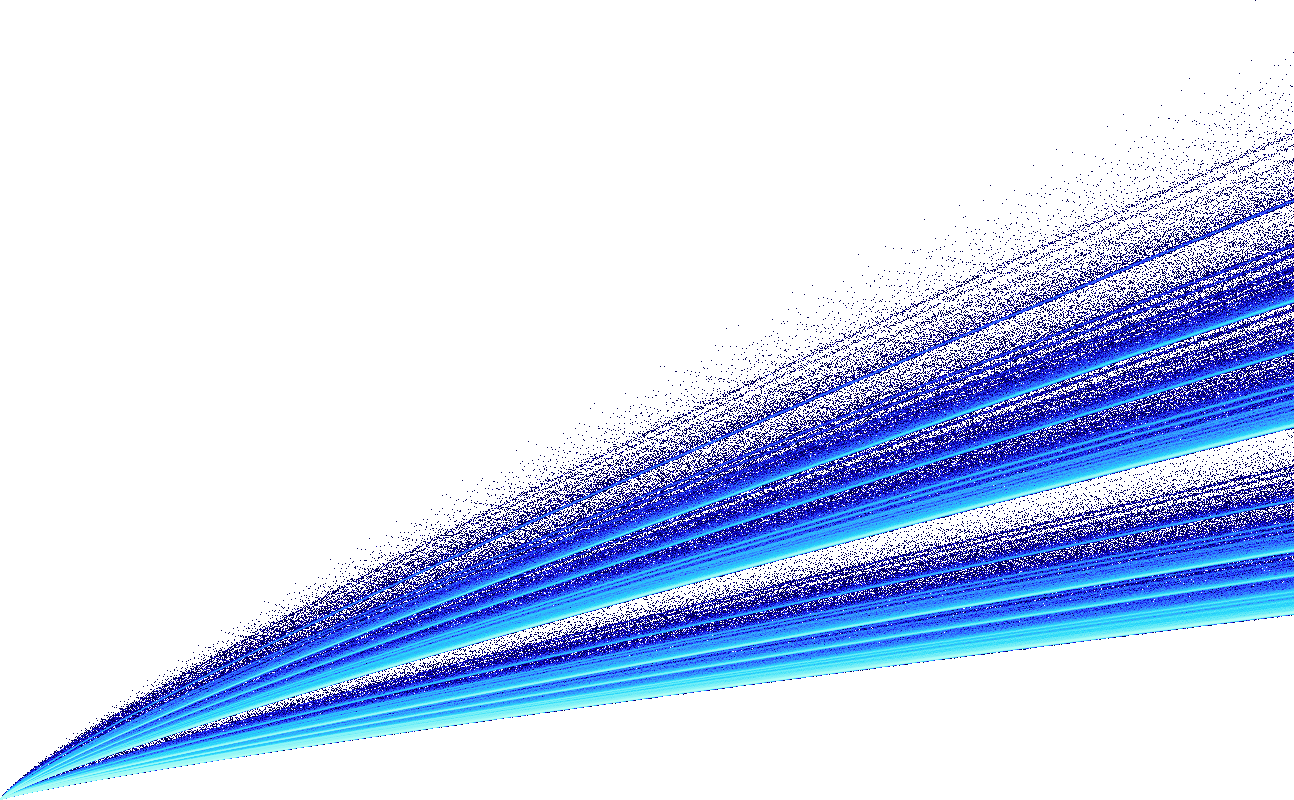
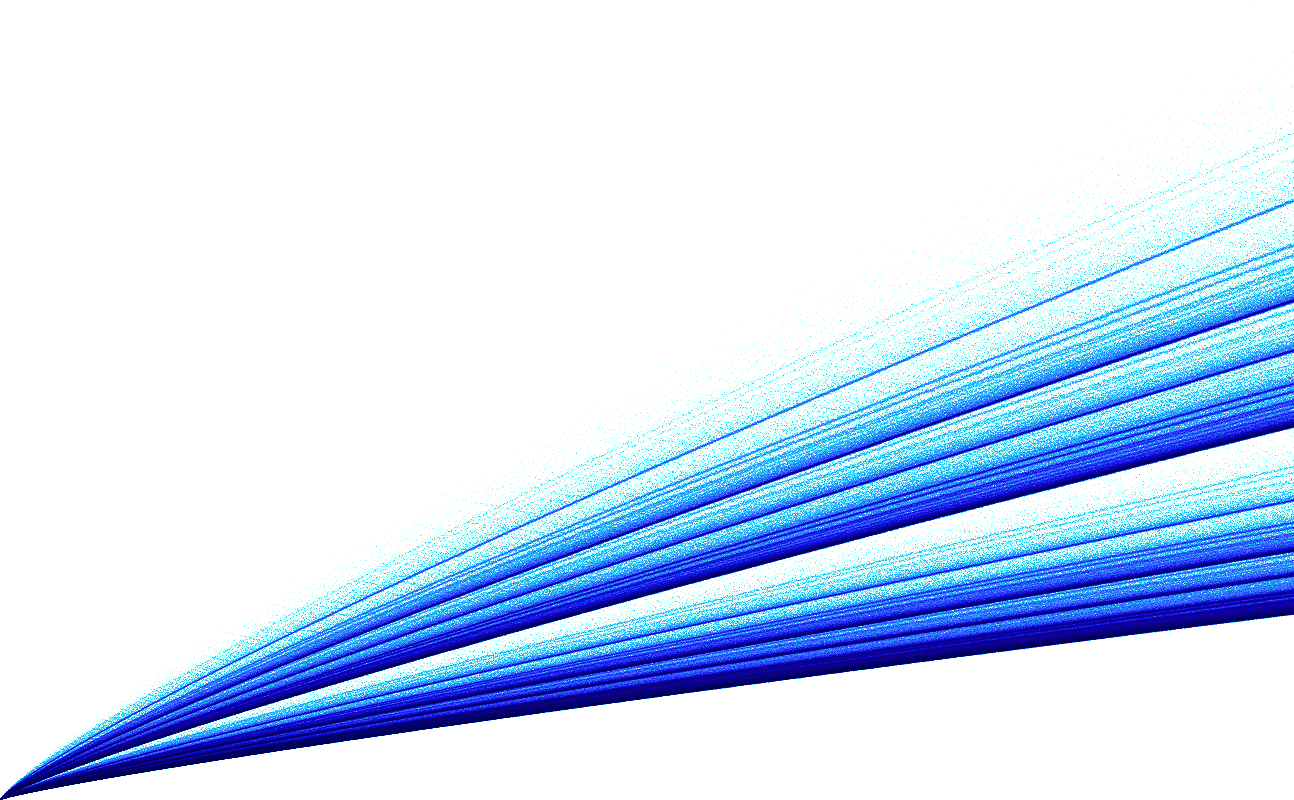
changed the palette

Changed region(s): [[0.0, 0.1562, 1.0, 1.0]]

diff --git a/_posts/2021-07-22-Goldbach-s-Comet-with-Numba-and-Datashader.md b/_posts/2021-07-22-Goldbach-s-Comet-with-Numba-and-Datashader.md
@@ -554,7 +554,7 @@ A bit less than 2 hours...
 
 
 ```python
-cmap = palette["kbc"]
+cmap = palette["kbc"][::-1]
 bg_col = "white"
 height = 800
 width = int(np.round(1.6180 * height))

diff --git a/_posts/WP_2021-07-22-Goldbach-s-Comet-with-Numba-and-Datashader.md b/_posts/WP_2021-07-22-Goldbach-s-Comet-with-Numba-and-Datashader.md
@@ -533,7 +533,7 @@ A bit less than 2 hours...
 
 
 ```python
-cmap = palette["kbc"]
+cmap = palette["kbc"][::-1]
 bg_col = "white"
 height = 800
 width = int(np.round(1.6180 * height))
